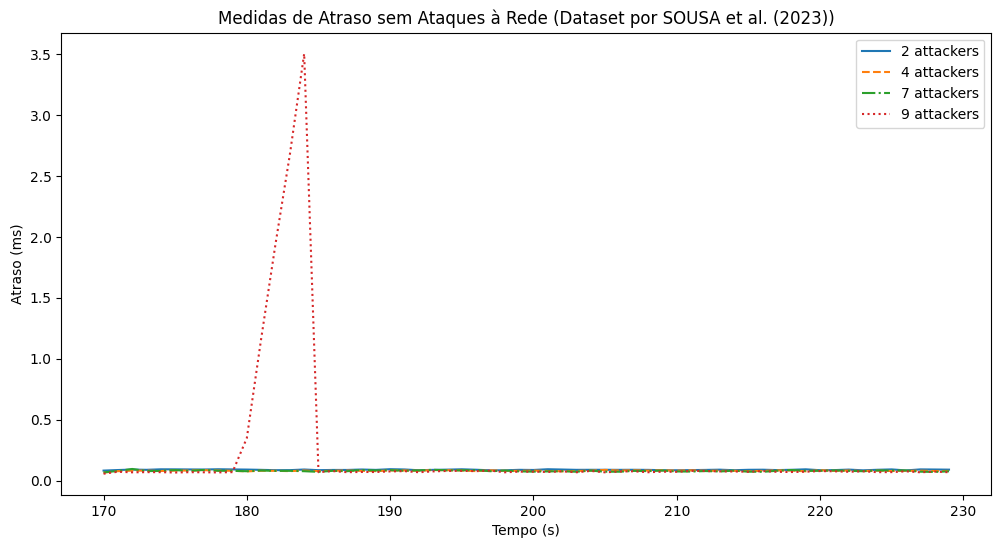
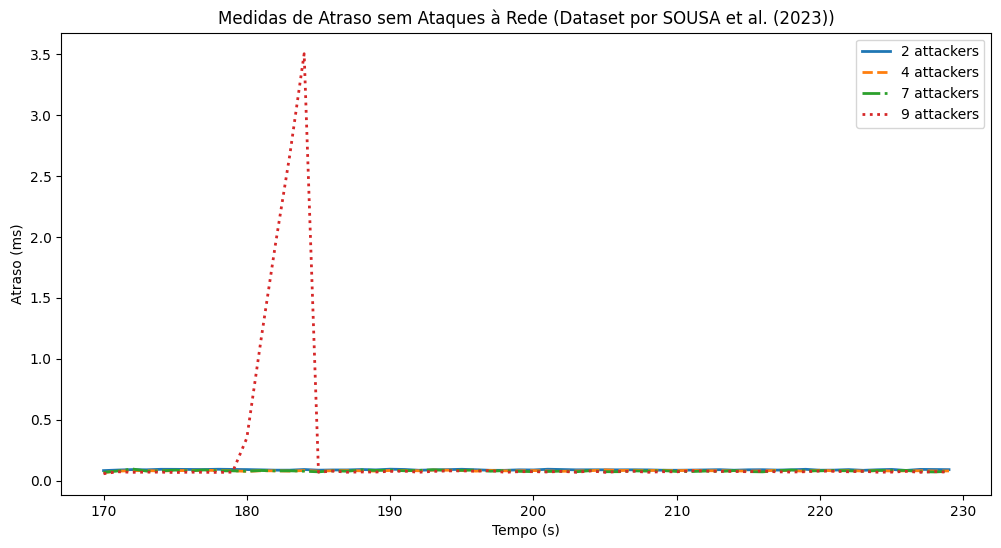
Additions

Changed region(s): [[0.0929, 0.8376, 0.96, 0.8686], [0.2787, 0.0931, 0.3097, 0.4033], [0.8671, 0.1241, 0.8981, 0.1551]]

diff --git a/src/Main.py b/src/Main.py
@@ -1,5 +1,6 @@
 from src.data.Dataset import Dataset
 from src.processors.PlotProcessor import PlotProcessor
+from src.processors.DataProcessor import DataProcessor
 
 
 class Main:
@@ -22,6 +23,7 @@ class Main:
         self.plot_throughputs()
         self.plot_delays()
         self.plot_jitters()
+        self.plot_by_ue()
 
     def plot_throughputs(self):
         PlotProcessor.plot_throughput(
@@ -37,19 +39,8 @@ class Main:
             [30, 60, 90, 120]
         )
 
-        PlotProcessor.plot_throughput(
-            [
-                self.collected[2].dataset,
-                self.collected[4].dataset,
-                self.collected[7].dataset,
-                self.collected[9].dataset
-            ],
-            ['2 attackers', '4 attackers', '7 attackers', '9 attackers'],
-            'Medidas de Vazão (Dataset por SOUSA et al. (2023))',
-            y_label='Vazão (Kbps)'
-        )
-
     def plot_delays(self):
+        # Simulation Scenarios
         PlotProcessor.plot_delay(
             [
                 self.simulated_tcp[30].dataset['rx_pdcp'],
@@ -62,6 +53,7 @@ class Main:
             './plots/pdcp_delay_tempo_tcp.png'
         )
 
+        # Dataset por SOUSA et al. (2023)
         PlotProcessor.plot_delay(
             [
                 self.collected[2].dataset,
@@ -88,6 +80,7 @@ class Main:
         )
 
     def plot_jitters(self):
+        # Simulation Scenarios
         PlotProcessor.plot_jitter(
             [
                 self.simulated_tcp[30].dataset['rx_pdcp'],
@@ -100,6 +93,7 @@ class Main:
             './plots/pdcp_jitter_tempo_tcp.png'
         )
 
+        # Dataset por SOUSA et al. (2023)
         PlotProcessor.plot_jitter(
             [
                 self.collected[2].dataset,
@@ -123,6 +117,93 @@ class Main:
             'Medidas de $\it{Jitter}$ sem Ataques à Rede (Dataset por SOUSA et al. (2023))',
             './plots/jitter_tempo_dataset_not_attacked.png',
             is_attack=0
+        )
+
+    def plot_by_ue(self):
+        # Simulation Scenarios
+        PlotProcessor.plot_by_ue(
+            [
+                DataProcessor.get_throughput(self.simulated_tcp[30].dataset['rxPacketTrace']['packetSize'],
+                                             self.simulated_tcp[30].dataset['rxPacketTrace']['time']),
+
+                DataProcessor.get_throughput(self.simulated_tcp[60].dataset['rxPacketTrace']['packetSize'],
+                                             self.simulated_tcp[60].dataset['rxPacketTrace']['time']),
+
+                DataProcessor.get_throughput(self.simulated_tcp[90].dataset['rxPacketTrace']['packetSize'],
+                                             self.simulated_tcp[90].dataset['rxPacketTrace']['time']),
+
+                DataProcessor.get_throughput(self.simulated_tcp[120].dataset['rxPacketTrace']['packetSize'],
+                                             self.simulated_tcp[120].dataset['rxPacketTrace']['time']),
+            ],
+            [30, 60, 90, 120],
+            'Usuários ativos',
+            'Vazão (MBPS)',
+            'Média de Vazão por Cenário',
+            './plots/throughput_usuarios_tcp.png'
+        )
+
+        PlotProcessor.plot_by_ue(
+            [
+                DataProcessor.get_avg_by_second(self.simulated_tcp[30].dataset['rx_pdcp']['delay'],
+                                                self.simulated_tcp[30].dataset['rx_pdcp']['time']),
+
+                DataProcessor.get_avg_by_second(self.simulated_tcp[60].dataset['rx_pdcp']['delay'],
+                                                self.simulated_tcp[60].dataset['rx_pdcp']['time']),
+
+                DataProcessor.get_avg_by_second(self.simulated_tcp[90].dataset['rx_pdcp']['delay'],
+                                                self.simulated_tcp[90].dataset['rx_pdcp']['time']),
+
+                DataProcessor.get_avg_by_second(self.simulated_tcp[120].dataset['rx_pdcp']['delay'],
+                                                self.simulated_tcp[120].dataset['rx_pdcp']['time']),
+            ],
+            [30, 60, 90, 120],
+            'Usuários ativos',
+            'Atraso (ms)',
+            'Média de Atraso por Cenário',
+            './plots/delay_usuarios_tcp.png'
+        )
+
+        PlotProcessor.plot_by_ue(
+            [
+                DataProcessor.get_jitter(self.simulated_tcp[30].dataset['rx_pdcp']['delay'],
+                                         self.simulated_tcp[30].dataset['rx_pdcp']['time']),
+
+                DataProcessor.get_jitter(self.simulated_tcp[60].dataset['rx_pdcp']['delay'],
+                                         self.simulated_tcp[60].dataset['rx_pdcp']['time']),
+
+                DataProcessor.get_jitter(self.simulated_tcp[90].dataset['rx_pdcp']['delay'],
+                                         self.simulated_tcp[90].dataset['rx_pdcp']['time']),
+
+                DataProcessor.get_jitter(self.simulated_tcp[120].dataset['rx_pdcp']['delay'],
+                                         self.simulated_tcp[120].dataset['rx_pdcp']['time']),
+            ],
+            [30, 60, 90, 120],
+            'Usuários ativos',
+            'Jitter (ms)',
+            'Média de $\it{Jitter}$ por Cenário',
+            './plots/jitter_usuarios_tcp.png'
+        )
+
+        PlotProcessor.plot_by_ue(
+            [
+                DataProcessor.get_packet_loss_ratio(self.simulated_tcp[30].dataset['rx_pdcp']['time'],
+                                                    self.simulated_tcp[30].dataset['tx_pdcp']['time']),
+
+                DataProcessor.get_packet_loss_ratio(self.simulated_tcp[60].dataset['rx_pdcp']['time'],
+                                                    self.simulated_tcp[60].dataset['tx_pdcp']['time']),
+
+                DataProcessor.get_packet_loss_ratio(self.simulated_tcp[90].dataset['rx_pdcp']['time'],
+                                                    self.simulated_tcp[90].dataset['tx_pdcp']['time']),
+
+                DataProcessor.get_packet_loss_ratio(self.simulated_tcp[120].dataset['rx_pdcp']['time'],
+                                                    self.simulated_tcp[120].dataset['tx_pdcp']['time'])
+            ],
+            [30, 60, 90, 120],
+            'Usuários ativos',
+            '$\it{PLR}$ (%)',
+            'Média de $\it{PLR}$ por Cenário',
+            './plots/plr_usuarios_tcp.png',
+            True
         )
 
 

diff --git a/src/processors/PlotProcessor.py b/src/processors/PlotProcessor.py
@@ -37,7 +37,7 @@ class PlotProcessor:
         plot_maker.show()
 
     @staticmethod
-    def plot_delay(data, legend, title='Medidas de Atraso', file_path=None, UEs=None, is_attack=None):
+    def plot_delay(data, legend, title='Medidas de Atraso', file_path=None, is_attack=None):
         try:
             NotAListError.is_list(data)
         except NotAListError as e:
@@ -64,10 +64,7 @@ class PlotProcessor:
         else:
             for value in data:
                 time.append(DataProcessor.convert_time_to_set(DataProcessor.get_time_stamps(value['time'])))
-                if UEs:
-                    delay.append(DataProcessor.get_avg_by_second(value['delay'], value['time'], scale=1e3))
-                else:
-                    delay.append(DataProcessor.get_avg_by_second(value['delay'], value['time']))
+                delay.append(DataProcessor.get_avg_by_second(value['delay'], value['time'], scale=1e3))
 
         plot_maker.plot(time, delay, legend)
         if file_path:
@@ -75,7 +72,7 @@ class PlotProcessor:
         plot_maker.show()
 
     @staticmethod
-    def plot_jitter(data, legend, title='Medidas de $\it{Jitter}$', file_path=None, UEs=None, is_attack=None):
+    def plot_jitter(data, legend, title='Medidas de $\it{Jitter}$', file_path=None, is_attack=None):
         try:
             NotAListError.is_list(data)
         except NotAListError as e:
@@ -102,12 +99,31 @@ class PlotProcessor:
         else:
             for value in data:
                 time.append(DataProcessor.convert_time_to_set(DataProcessor.get_time_stamps(value['time'])))
-                if UEs:
-                    jitter.append(DataProcessor.get_jitter(value['delay'], value['time']))
-                else:
-                    jitter.append(DataProcessor.get_jitter(value['delay'], value['time']))
+                jitter.append(DataProcessor.get_jitter(value['delay'], value['time']))
 
         plot_maker.plot(time, jitter, legend)
+        if file_path:
+            plot_maker.save(file_path)
+        plot_maker.show()
+
+    @staticmethod
+    def plot_by_ue(data, x_axis, x_label, y_label, title, file_path=None, is_plr=False):
+        try:
+            NotAListError.is_list(data)
+            NotAListError.is_list(x_axis)
+        except NotAListError as e:
+            print('NotAListError found:', e)
+
+        plot_maker = PlotMaker.instance()
+        plot_maker.create_plot(x_label, y_label, title)
+
+        y_axis = []
+
+        for value in data:
+            y_axis.append(DataProcessor.get_average(value) if not is_plr
+                          else abs(value))
+
+        plot_maker.plot(x_axis, y_axis, ms='s')
         if file_path:
             plot_maker.save(file_path)
         plot_maker.show()

diff --git a/src/util/PlotMaker.py b/src/util/PlotMaker.py
@@ -18,12 +18,12 @@ class PlotMaker:
         plt.ticklabel_format(style=ticklabel_format)
         locale.setlocale(locale.LC_NUMERIC, "pt_BR")
 
-    def plot(self, x, y, legend=None, marker_style=None):
+    def plot(self, x, y, legend=None, ls='dashed', col='blue', ms=None):
         if any(isinstance(item, list) for item in (x[0], y[0])):
             for index, (i, j) in enumerate(zip(x, y)):
-                plt.plot(i, j, linestyle=self.line_styles[index], marker=marker_style)
+                plt.plot(i, j, linestyle=self.line_styles[index], marker=ms, linewidth=2)
         else:
-            plt.plot(x, y, marker=marker_style)
+            plt.plot(x, y, linestyle=ls, marker=ms, linewidth=2, markersize=15)
 
         if legend:
             plt.legend(legend)

diff --git a/src/processors/DataProcessor.py b/src/processors/DataProcessor.py
@@ -90,12 +90,15 @@ class DataProcessor:
             aux_tx.append(value_tx)
             aux_rx.append(value_rx)
             if current_time != previous_time:
-                # Percentage of packets delivered
                 pdr.append(len(aux_rx) / len(aux_tx) * 100)
                 aux_tx = []
                 aux_rx = []
 
         return pdr
+
+    @staticmethod
+    def get_packet_loss_ratio(tx_packets, rx_packets):
+        return 1 - (len(rx_packets) / len(tx_packets))
 
     @staticmethod
     def get_not_attacked_packets(data):
